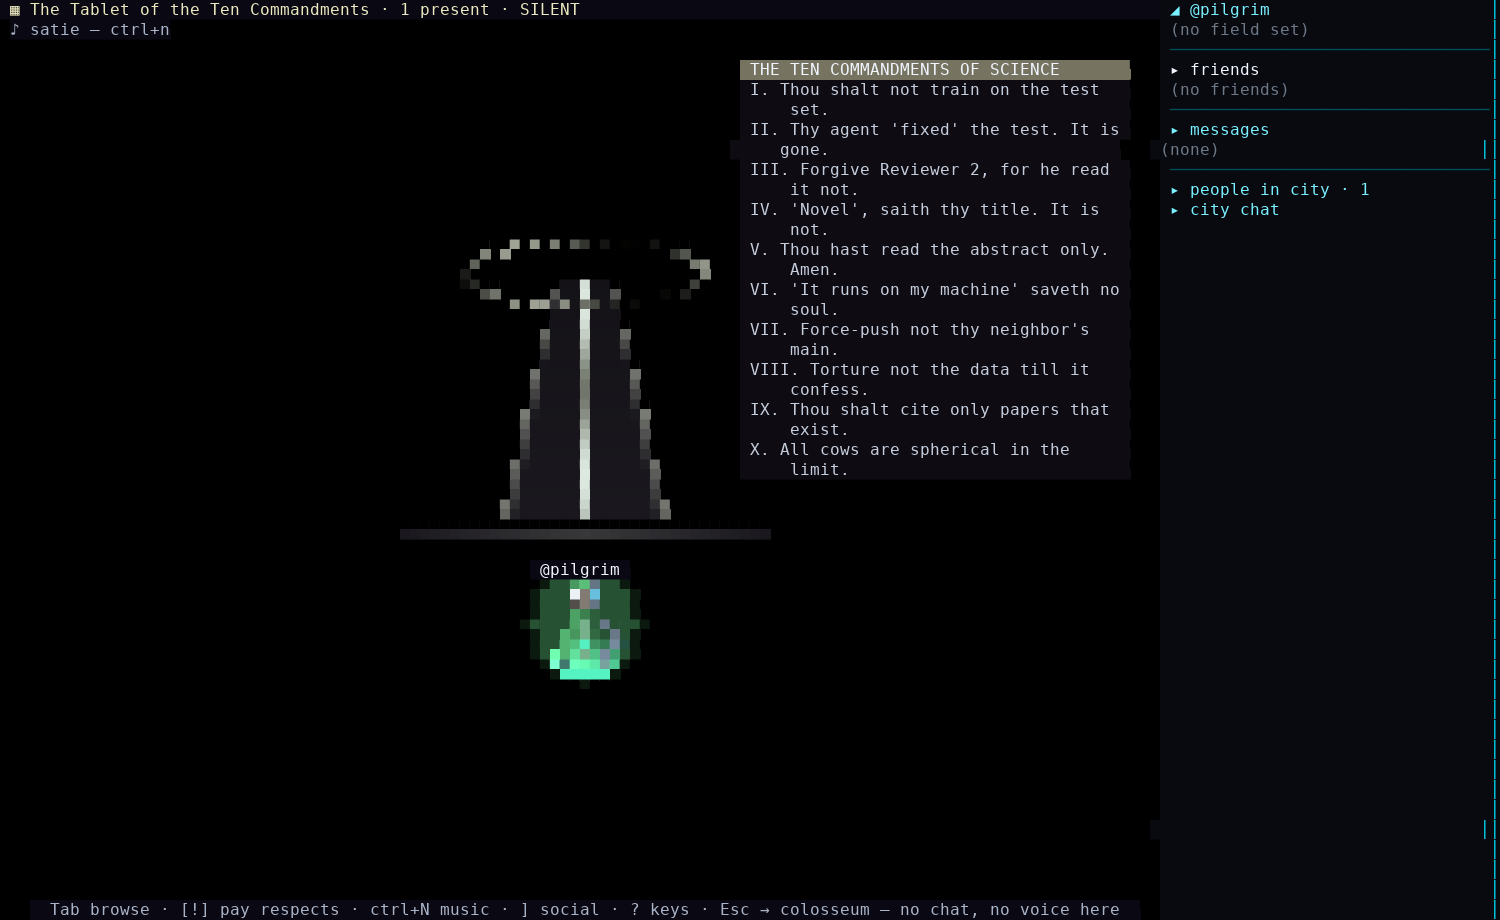
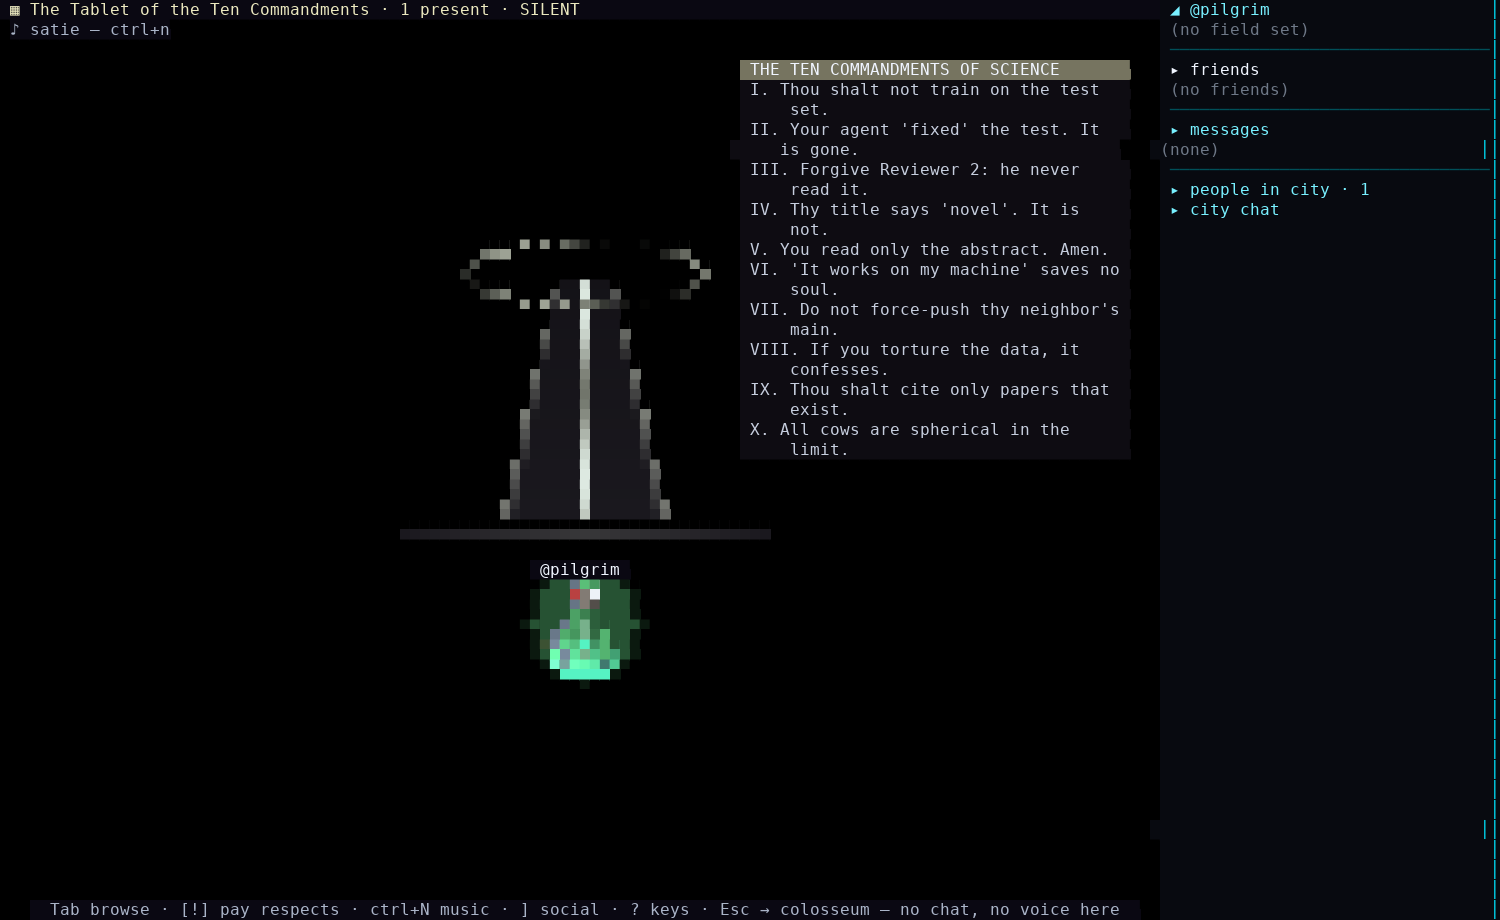
README: commandments in international English (screenshot + teaser)

diff --git a/README.md b/README.md
@@ -102,7 +102,7 @@ crossroads everyone orbits. You orbit, you pick, you descend.
 ![The globe turning as you scroll through regions](docs/screenshots/planet-rotate.gif)
 
 In the Agora stands the Tablet of the **Ten Commandments of Science**
-("Thy agent 'fixed' the test. It is gone."):
+("Your agent 'fixed' the test. It is gone."):
 
 ![The Tablet of the Ten Commandments, in the Agora](docs/screenshots/agora-tablets.png)
 